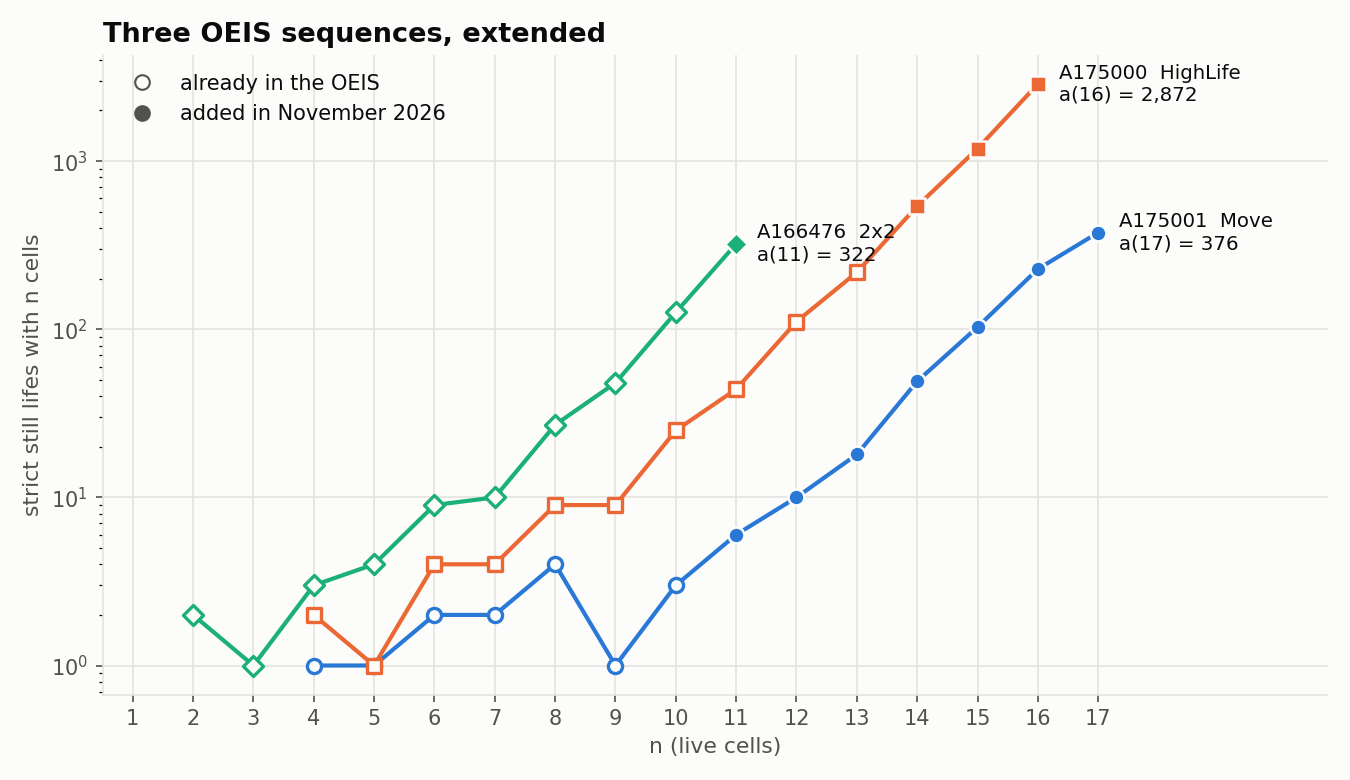
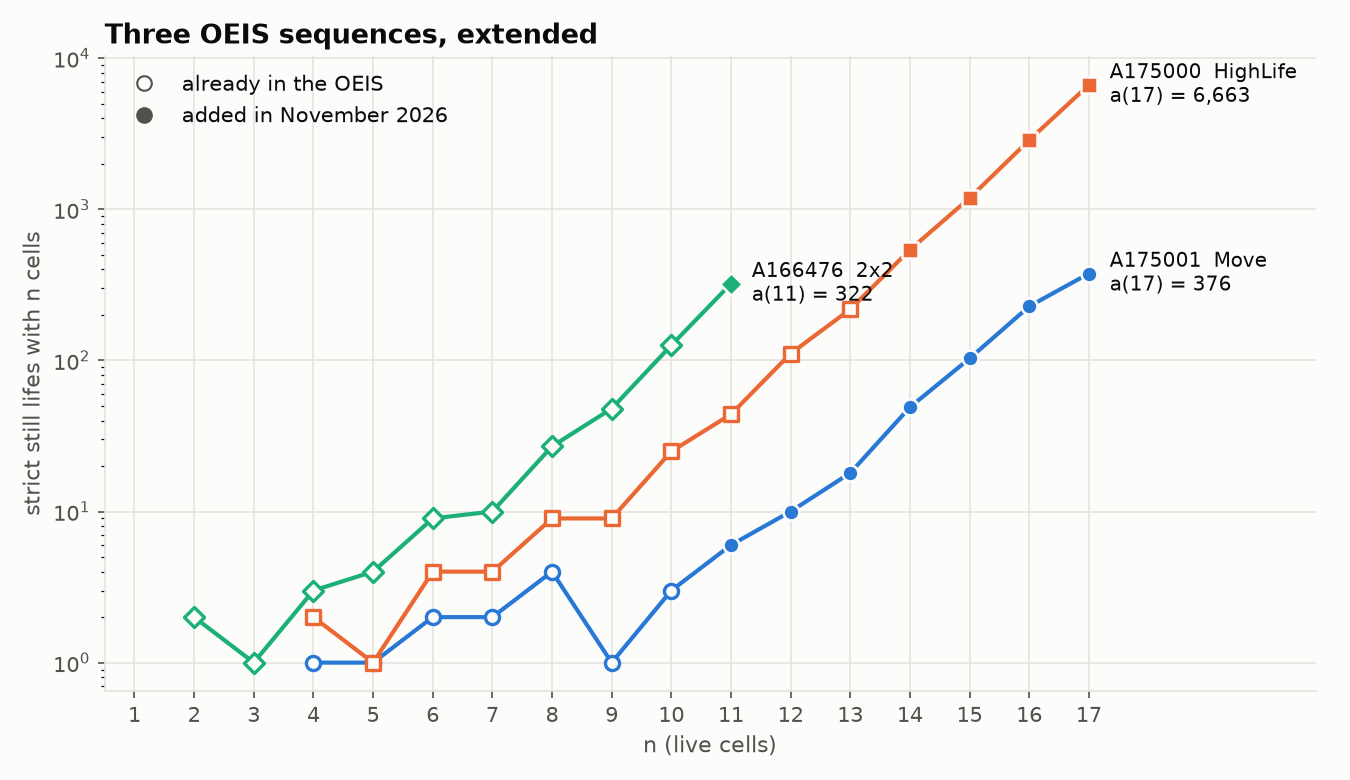
Add A175000 a(17) = 6663, published by the OEIS on 9 November 2026
HighLife (B36/S23) gains a(17) = 6663 (OEIS revision 19), now twelve new
terms. This one was computed in a single run per program, not split by
box: both programs return 6663 and both reproduce a(14) = 540 in the
same run, so they agree on the total, but there are no per-box files for
it. It goes in data/totals.txt rather than data/boxes/, the README says
so in a note, and tests/run.sh checks it against the b-file and that it
is not also filed as box-checked. data/b175000.txt is identical to the
b-file the OEIS serves; figures/terms.png redrawn.

diff --git a/README.md b/README.md
@@ -1,8 +1,8 @@
-# Eleven new OEIS terms: strict still lifes in Move, HighLife and 2x2
+# Twelve new OEIS terms: strict still lifes in Move, HighLife and 2x2
 
 [![tests](https://github.com/joelcanary/still-lifes-move-highlife-2x2/actions/workflows/test.yml/badge.svg)](https://github.com/joelcanary/still-lifes-move-highlife-2x2/actions/workflows/test.yml)
 
-Eleven terms added to three sequences of the [On-Line Encyclopedia of Integer Sequences](https://oeis.org) that count **strict still lifes** in Life-like cellular automata, approved by the OEIS editors in November 2026, together with the two independent C programs that computed them, the per-box data behind every term and a test suite.
+Twelve terms added to three sequences of the [On-Line Encyclopedia of Integer Sequences](https://oeis.org) that count **strict still lifes** in Life-like cellular automata, approved by the OEIS editors in November 2026, together with the two independent C programs that computed them, the per-box data behind every term and a test suite.
 
 <p align="center"><img src="figures/gallery-move.gif" alt="Every strict still life of the Move rule with 11 to 15 cells, one frame per size" width="760"></p>
 
@@ -11,10 +11,12 @@ Eleven terms added to three sequences of the [On-Line Encyclopedia of Integer Se
 | Sequence | Rule | Known before | Added | Values |
 |---|---|---|---|---|
 | [A175001](https://oeis.org/A175001) | Move, B368/S245 | a(1)–a(10) | a(11)–a(17) | 6, 10, 18, 49, 103, 228, 376 |
-| [A175000](https://oeis.org/A175000) | HighLife, B36/S23 | a(1)–a(13) | a(14)–a(16) | 540, 1187, 2872 |
+| [A175000](https://oeis.org/A175000) | HighLife, B36/S23 | a(1)–a(13) | a(14)–a(17) | 540, 1187, 2872, 6663&nbsp;† |
 | [A166476](https://oeis.org/A166476) | 2x2, B36/S125 | a(1)–a(10) | a(11) | 322 |
 
 None of the three had gained a term since 2010. The full sequences are in [`data/`](data) as b-files, identical to what the OEIS serves today.
+
+† a(17) = 6663 of A175000 (published on 9 November 2026) was computed in a single run per program rather than split by box. Both programs return 6663, and both reproduce a(14) = 540 in the same run as a guard, so the two agree on the total; there are no per-box files for it yet. It is therefore listed in [`data/totals.txt`](data/totals.txt), not with the others in [`data/boxes/`](data/boxes).
 
 <p align="center"><img src="figures/terms.png" alt="Number of strict still lifes against the number of cells, on a log scale, for the three sequences; hollow markers are the terms already in the OEIS, filled markers the ones added" width="760"></p>
 
@@ -40,13 +42,13 @@ Inside each box the two programs share nothing else:
 | Rotations and reflections | keeps only the smallest of the transforms | canonical form stored in a hash table |
 | Strictness | backtracking search for a stable split of the islands | brute force over every split of the islands |
 
-Every count is split by box size, and the two programs must agree on **every box**, not just on the total. The per-box counts for all eleven new terms are in [`data/boxes/`](data/boxes).
+Every count is split by box size, and the two programs must agree on **every box**, not just on the total. The per-box counts for eleven of the twelve new terms are in [`data/boxes/`](data/boxes); the twelfth (†) is checked on the total only.
 
 <p align="center"><img src="figures/boxes-A175001-n17.png" alt="Heat map of how many of the 376 strict still lifes of A175001 with 17 cells fall in each box size" width="640"></p>
 
 ## Verification
 
-- **Two programs, every box.** For each of the eleven new terms, both programs return the same count in every box. [`tests/run.sh`](tests/run.sh) checks this from the stored files.
+- **Two programs, every box.** For eleven of the twelve new terms, both programs return the same count in every box. [`tests/run.sh`](tests/run.sh) checks this from the stored files. For A175000 a(17) they agree on the total, and the test checks that this term matches the b-file and has not been filed as a box-checked one.
 - **Published terms reproduced.** Both programs reproduce every term these entries already had, and the related ones too: A175001 to a(10), A175000 to a(13), A166476 to a(10), [A175002](https://oeis.org/A175002) (Maze) to a(9) and [A019473](https://oeis.org/A019473) (Conway) to a(15). The test suite recomputes the smaller of these on every run.
 - **Every pattern drawn here is re-checked.** [`scripts/make_figures.py`](scripts/make_figures.py) simulates one generation of each pattern before drawing it and refuses any that changes.
 
